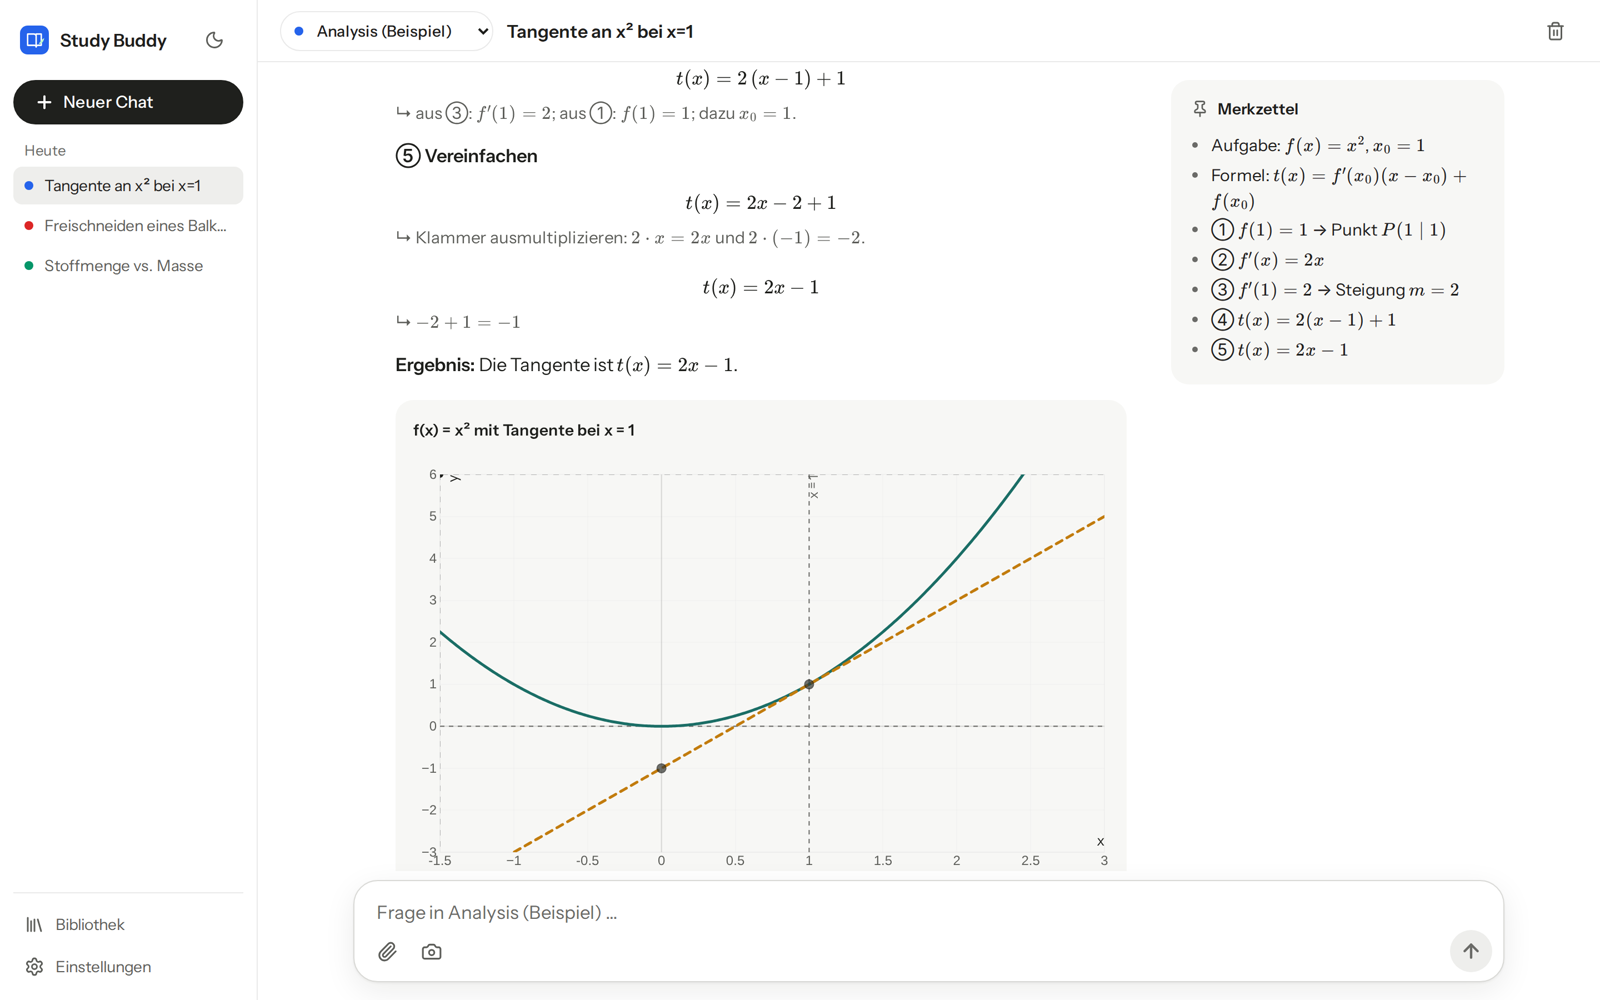
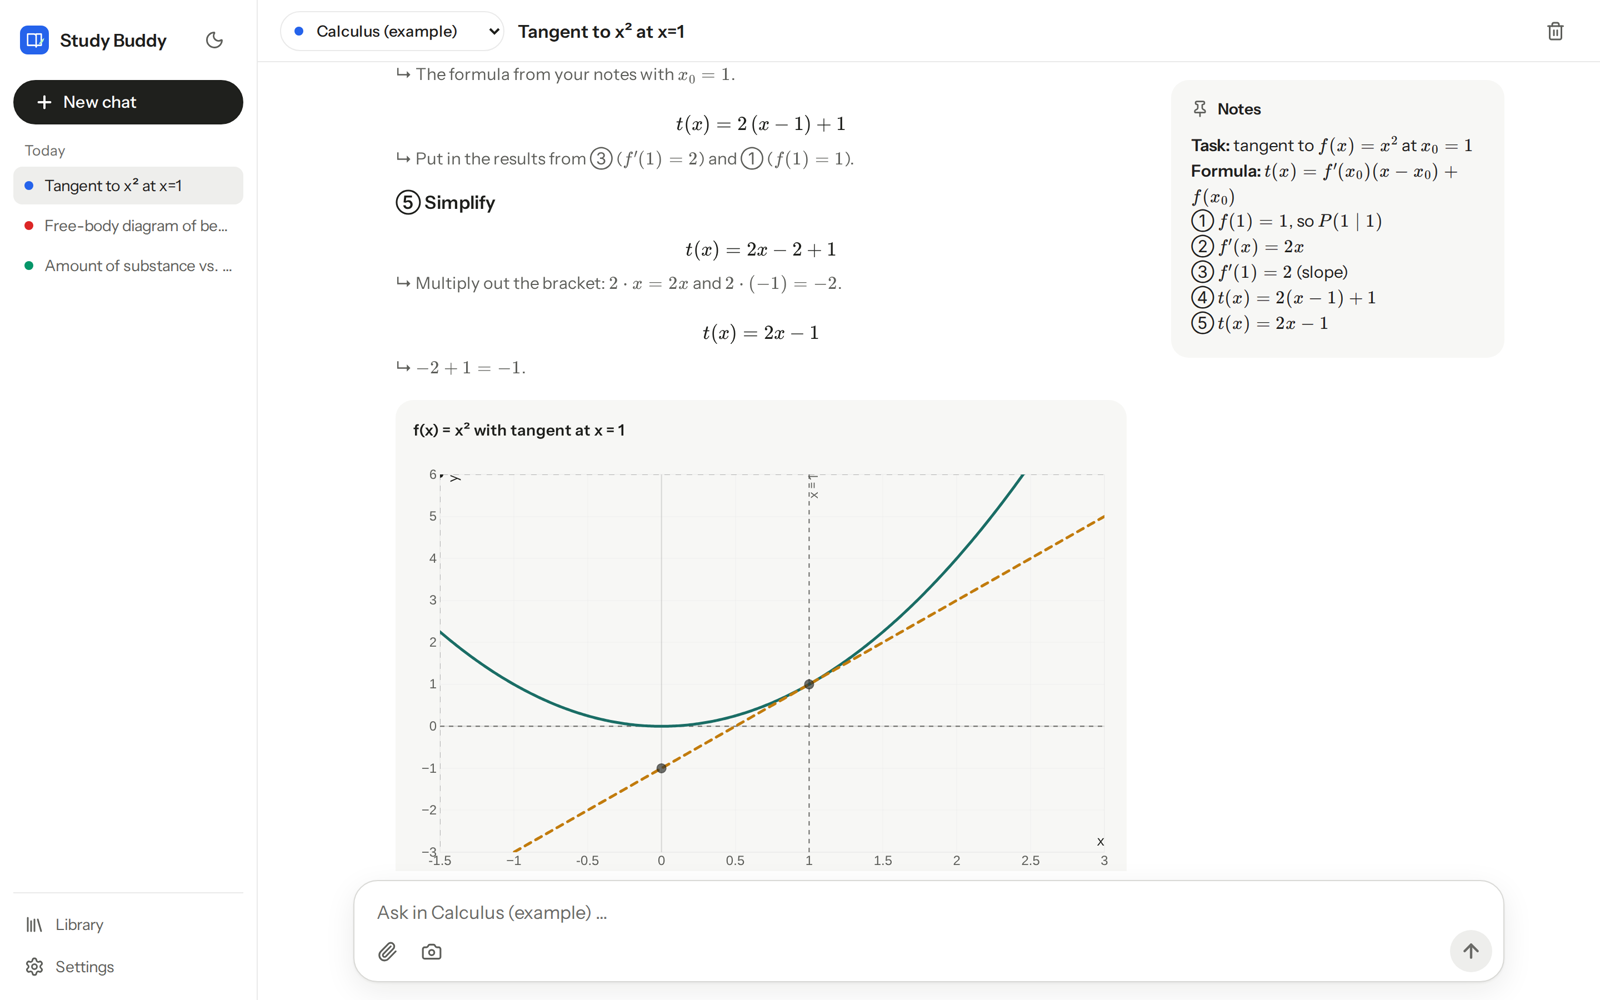
English by default: example config, screenshots and an English demo video
- app/config/app.example.json: starting language (en) and optional term language
- English sample modules and learner profile; the prompt no longer hard-codes German exam terms
- Video lessons take an optional lang for on-screen labels; new tangent-en demo with an English voice
- README leads with the three UI languages and lists what is still German-only

diff --git a/app/server/prompt.ts b/app/server/prompt.ts
@@ -1,21 +1,34 @@
-import { DEFAULT_MODULE, MODULES, STUDENT_PROFILE } from "./config.ts";
+import { APP_SETTINGS, DEFAULT_MODULE, MODULES, STUDENT_PROFILE } from "./config.ts";
 
 /* The tutor's system prompt. It is in German on purpose: the learner studies in German.
    Personal details (what and where the learner studies) come from config/student.md. */
 
 const LANG: Record<string, string> = {
   de: "Antworte auf **Deutsch** (einfaches, klares Deutsch – kurze Sätze, keine unnötigen Fremdwörter).",
-  en: "Answer in **English** (simple, clear English). Always add the German technical term in brackets the first time it appears, e.g. „bearing force (Lagerkraft)“ – the exams are in German.",
-  ar: "أجب **بالعربية** (لغة بسيطة وواضحة، ويمكن استخدام العامية المصرية الخفيفة). اكتب المصطلح الألماني بين قوسين عند أول ظهور له، مثل: „قوة الارتكاز (Lagerkraft)“ – لأن الامتحانات بالألمانية. المعادلات تبقى بالرموز اللاتينية.",
+  en: "Answer in **English** (simple, clear English).",
+  ar: "أجب **بالعربية** (لغة بسيطة وواضحة، ويمكن استخدام العامية المصرية الخفيفة). المعادلات تبقى بالرموز اللاتينية.",
+};
+
+/** Optional: add technical terms in another language in brackets (e.g. when the exams are in German). */
+const termRule = (lang: string) => {
+  const t = APP_SETTINGS.termLanguage;
+  if (!t || (lang === "de" && /^deutsch|german$/i.test(t))) return "";
+  return lang === "ar"
+    ? `
+اكتب المصطلح الفني بال${t === "Deutsch" ? "ألمانية" : t} بين قوسين عند أول ظهور له، لأن الامتحانات بهذه اللغة.`
+    : `
+Add the ${t === "Deutsch" ? "German" : t} technical term in brackets the first time it appears, e.g. "bearing force (Lagerkraft)", because the exams are in that language.`;
 };
 
 export function systemPrompt(o: { lang: string; module: string; profile: string[]; library: string; name: string }) {
   const who = o.name.trim() || "die Person, die du betreust";
   const mod = MODULES.find((m) => m.id === o.module);
-  return `Du bist „Study Buddy“, ein persönlicher Tutor. ${o.name.trim() ? `Die Person, die du betreust, heißt **${o.name.trim()}** (den Namen nur im Chat verwenden, nie in Videos). ${o.name.trim()}` : "Die Person, die du betreust,"} ${STUDENT_PROFILE} Normale KI-Erklärungen waren oft zu schwer oder zu sprunghaft – deine Aufgabe: Es soll WIRKLICH verstanden werden. Sprich mit „du“ an.
+  return `Du bist „Study Buddy“, ein persönlicher Tutor. ${o.name.trim() ? `Die Person, die du betreust, heißt **${o.name.trim()}** (den Namen nur im Chat verwenden, nie in Videos).` : ""}
+Über die Person: ${STUDENT_PROFILE}
+Normale KI-Erklärungen waren oft zu schwer oder zu sprunghaft – deine Aufgabe: Es soll WIRKLICH verstanden werden. Sprich mit „du“ an.
 
 ## Sprache
-${LANG[o.lang] ?? LANG.de}
+${LANG[o.lang] ?? LANG.de}${termRule(o.lang)}
 
 ## Module
 ${MODULES.filter((m) => m.id !== DEFAULT_MODULE).map((m) => `- ${m.id}: ${m.name}`).join("\n")}

diff --git a/app/server/index.ts b/app/server/index.ts
@@ -7,7 +7,7 @@ import path from "node:path";
 import { execFile } from "node:child_process";
 import { promisify } from "node:util";
 import { db, getSetting, now, setSetting, uid, UPLOAD_DIR } from "./db.ts";
-import { APP_DIR, BASE_PATH, DEFAULT_MODULE, MODULES, PYTHON, isModule } from "./config.ts";
+import { APP_DIR, BASE_PATH, DEFAULT_LANG, DEFAULT_MODULE, MODULES, PYTHON, isModule } from "./config.ts";
 import { addDocument, deleteDoc, getDoc, importLibraryFolder, listDocs } from "./library.ts";
 import { getVideo, listVideos, resumeQueue } from "./video.ts";
 import { runTurn, type Attachment, type TurnEvent } from "./agent.ts";
@@ -90,12 +90,12 @@ api.use((req, res, next) => {
 });
 
 // ---------- Settings, modules, learner memory ----------
-api.get("/me", (_req, res) => res.json({ ok: true, lang: getSetting("lang", "de"), name: getSetting("name", "") }));
+api.get("/me", (_req, res) => res.json({ ok: true, lang: getSetting("lang", DEFAULT_LANG), name: getSetting("name", "") }));
 api.put("/settings", (req, res) => {
   const lang = String(req.body?.lang ?? "");
   if (["de", "en", "ar"].includes(lang)) setSetting("lang", lang);
   if (typeof req.body?.name === "string") setSetting("name", req.body.name.replace(/[\r\n]/g, " ").trim().slice(0, 40));
-  res.json({ lang: getSetting("lang", "de"), name: getSetting("name", "") });
+  res.json({ lang: getSetting("lang", DEFAULT_LANG), name: getSetting("name", "") });
 });
 api.get("/modules", (_req, res) => {
   const counts = db.prepare("SELECT module, COUNT(*) AS n FROM documents GROUP BY module").all() as { module: string; n: number }[];

diff --git a/app/server/config.ts b/app/server/config.ts
@@ -18,7 +18,7 @@ export const MODEL = process.env.STUDY_MODEL || "claude-opus-5-5";
 
 export type Module = { id: string; name: string; icon: string; color: string; semester: number; handbook: string };
 
-/** modules.json and student.md (each falls back to its *.example file). */
+/** app.json, modules.json and student.md (each falls back to its *.example file). */
 const CONFIG_DIR = path.resolve(process.env.CONFIG_DIR || path.join(APP_DIR, "config"));
 
 /** Read config/<name>, falling back to config/<example> so a fresh clone runs with sample data. */
@@ -33,6 +33,11 @@ if (!MODULES.some((m) => m.id === "allgemein")) {
   MODULES.push({ id: "allgemein", name: "Allgemein", icon: "messages-square", color: "#64748b", semester: 0, handbook: "" });
 }
 export const DEFAULT_MODULE = "allgemein";
+
+/** App defaults: the starting UI/answer language ("de" | "en" | "ar"), and optionally the language in which
+    technical terms are added in brackets (useful when the exams are in another language than the answers). */
+export const APP_SETTINGS: { lang: "de" | "en" | "ar"; termLanguage: string | null } = { lang: "en", termLanguage: null, ...JSON.parse(readConfig("app.json", "app.example.json")) };
+export const DEFAULT_LANG = APP_SETTINGS.lang;
 
 /** A few sentences about the learner (what and where they study); inserted into the tutor prompt. */
 export const STUDENT_PROFILE = readConfig("student.md", "student.example.md").trim();

diff --git a/video/src/Scenes.tsx b/video/src/Scenes.tsx
@@ -146,7 +146,7 @@ export const DiagramScene: React.FC<P & { appear: Record<string, number>; dur: R
 };
 
 /** Running notes on the right: persist across scenes and collect the task and intermediate results. */
-export const Notes: React.FC<{ th: Theme; t: number; notes: { at: number; label?: string; tex?: string; text?: string }[]; visibleFrom: number }> = ({ th, t, notes, visibleFrom }) => {
+export const Notes: React.FC<{ th: Theme; t: number; notes: { at: number; label?: string; tex?: string; text?: string }[]; visibleFrom: number; title?: string }> = ({ th, t, notes, visibleFrom, title = "Merkzettel" }) => {
   const o = ease(t, visibleFrom - 0.3, 0.6);
   if (o <= 0) return null;
   const shown = notes.filter((n) => t >= n.at - 0.1);
@@ -157,7 +157,7 @@ export const Notes: React.FC<{ th: Theme; t: number; notes: { at: number; label?
       borderRadius: 22, padding: "18px 22px", display: "flex", flexDirection: "column", gap: 10,
       boxShadow: th.name === "tafel" ? "0 6px 20px rgba(15,23,42,0.07)" : "none", overflow: "hidden",
     }}>
-      <div style={{ fontFamily: th.body, fontWeight: 800, fontSize: 30, color: th.amber }}>📌 Merkzettel</div>
+      <div style={{ fontFamily: th.body, fontWeight: 800, fontSize: 30, color: th.amber }}>📌 {title}</div>
       {shown.map((n, i) => {
         const a = ease(t, n.at - 0.1, 0.5);
         const fresh = t - n.at < 2.5;

diff --git a/app/server/agent.ts b/app/server/agent.ts
@@ -3,7 +3,7 @@ import path from "node:path";
 import { query, tool, createSdkMcpServer, type SDKUserMessage, type HookCallback } from "@anthropic-ai/claude-agent-sdk";
 import { z } from "zod";
 import { db, getSetting, now } from "./db.ts";
-import { DATA_DIR, MODEL, MODULES, moduleIds, moduleName } from "./config.ts";
+import { DATA_DIR, DEFAULT_LANG, MODEL, MODULES, moduleIds, moduleName } from "./config.ts";
 import { addDocument, getDoc, listDocs, pageText, search } from "./library.ts";
 import { checkLesson, createVideo, lessonSchema } from "./video.ts";
 import { systemPrompt } from "./prompt.ts";
@@ -101,7 +101,7 @@ const IMAGE_MIME = ["image/jpeg", "image/png", "image/gif", "image/webp"];
 /** One chat turn: send the message to Claude, stream the answer to the client, persist everything. */
 export async function runTurn(chatId: string, text: string, attachments: Attachment[], emit: (e: TurnEvent) => void) {
   const chat = db.prepare("SELECT * FROM chats WHERE id = ?").get(chatId) as any;
-  const lang = getSetting("lang", "de");
+  const lang = getSetting("lang", DEFAULT_LANG);
   const name = getSetting("name", "");
   const profile = (db.prepare("SELECT note FROM profile ORDER BY id").all() as { note: string }[]).map((r) => r.note);
   const docs = listDocs();

diff --git a/video/src/Lesson.tsx b/video/src/Lesson.tsx
@@ -41,9 +41,9 @@ const SceneView: React.FC<{ L: Lesson; i: number; starts: number[]; th: Theme; a
   );
 };
 
-const NotesLayer: React.FC<{ th: Theme; notes: { at: number }[]; visibleFrom: number }> = ({ th, notes, visibleFrom }) => {
+const NotesLayer: React.FC<{ th: Theme; notes: { at: number }[]; visibleFrom: number; title: string }> = ({ th, notes, visibleFrom, title }) => {
   const frame = useCurrentFrame();
-  return <Notes th={th} t={frame / FPS} notes={notes} visibleFrom={visibleFrom} />;
+  return <Notes th={th} t={frame / FPS} notes={notes} visibleFrom={visibleFrom} title={title} />;
 };
 
 const Progress: React.FC<{ th: Theme; total: number }> = ({ th, total }) => {
@@ -81,7 +81,7 @@ export const LessonVideo: React.FC<{ lesson: Lesson }> = ({ lesson: L }) => {
         </Sequence>
       ))}
       <div style={{ position: "absolute", top: 40, right: 60, fontFamily: th.body, fontSize: 24, fontWeight: 700, color: th.muted, opacity: 0.8 }}>{L.module}</div>
-      <NotesLayer th={th} notes={notes} visibleFrom={visibleFrom} />
+      <NotesLayer th={th} notes={notes} visibleFrom={visibleFrom} title={L.lang === "en" ? "Notes" : "Merkzettel"} />
       <Progress th={th} total={total} />
     </AbsoluteFill>
   );

diff --git a/app/web/src/i18n.ts b/app/web/src/i18n.ts
@@ -39,7 +39,7 @@ const T = {
     askSimpler: "Please explain that again more simply and slowly, with even smaller steps.",
     askDeeper: "Please explain that in more depth: more background on why it works, and a second example.",
     askVideo: "Please make a video of your last explanation.",
-    merkzettel: "Notes (Merkzettel)", videoQueued: "Video queued …", videoTts: "Conrad is recording the voice …", videoRendering: "Rendering video …",
+    merkzettel: "Notes", videoQueued: "Video queued …", videoTts: "Conrad is recording the voice …", videoRendering: "Rendering video …",
     videoError: "Video failed", download: "Download", minutes: "min",
     deleteChat: "Delete chat", confirmDelete: "Really delete?", rename: "Rename",
     libTitle: "Library", libSub: "Your books, lecture notes and old exams. The tutor searches here first.", upload: "Upload PDFs",

diff --git a/video/src/types.ts b/video/src/types.ts
@@ -11,6 +11,8 @@ export type Scene = {
 };
 export type Lesson = {
   id: string; title: string; module: string; style: "tafel" | "modern"; voice: string; rate?: string;
+  /** UI labels inside the video ("de" default, "en"). The narration language follows the text and the voice. */
+  lang?: "de" | "en";
   beam?: { l: number; a: number; F: number }; scenes: Scene[];
 };
 

diff --git a/README.md b/README.md
@@ -5,6 +5,8 @@ You ask a question (or send a photo of an exercise or a PDF), and Study Buddy an
 course material, step by step, with formulas, graphs and sketches. On request, it turns the explanation
 into a narrated explainer video.
 
+**UI in English, German and Arabic.** The tutor answers in the language you pick. A fresh clone starts in English.
+
 <p>
   <img src="docs/screenshots/chat-light.png" alt="Chat with the tutor: step-by-step solution, running notes and a function graph" width="100%">
 </p>
@@ -39,6 +41,7 @@ into a narrated explainer video.
   - Works on iPad and Android; designed for tablet and phone first.
   - Light and dark mode.
   - The service worker caches only the app shell, never API responses.
+- **Three languages.** The UI comes in English, German and Arabic (with right-to-left layout), and the tutor answers in the selected language. Optionally, technical terms can be added in brackets in a second language, for example when the exams are in German.
 - **Password login** with a signed HttpOnly cookie and rate limiting: 5 failed attempts per IP per 15 minutes, 30 in total.
 
 ## Architecture
@@ -74,10 +77,10 @@ app/
   server/      Node server: API, auth, Claude agent and tools, library, video queue
   web/         React UI (Vite), service worker, manifest
   scripts/     extract_pdf.py (PyMuPDF)
-  config/      modules.example.json, student.example.md (copy and edit)
+  config/      app.example.json, modules.example.json, student.example.md (copy and edit)
 video/
   src/         Remotion composition: scenes, graphs, sketches, captions
-  lessons/     demo lessons (substitution, statics, tangent)
+  lessons/     demo lessons: tangent-en (English) and three German ones
   scripts/     tts.py (edge-tts), demo.mjs
 library/       drop your own PDFs here, one folder per module id
 docs/          screenshots
@@ -107,7 +110,7 @@ npm start                       # serves on http://127.0.0.1:3000 (PORT in .env)
 # Video renderer (only needed for explainer videos)
 cd ../video
 npm install
-npm run demo -- lessons/tangente.json   # optional: voice and render a demo to video/out/
+npm run demo -- lessons/tangent-en.json   # optional: voice and render a demo to video/out/
 ```
 
 ### Configuration
@@ -117,13 +120,14 @@ npm run demo -- lessons/tangente.json   # optional: voice and render a demo to v
   - `STUDY_PASSWORD`: the login password. Use a long random one.
   - `STUDY_SECRET`: the key for signing the login cookie.
   - `PORT`, plus the optional `STUDY_MODEL`, `BASE_PATH`, `DATA_DIR`, `CONFIG_DIR`, `LIBRARY_DIR` and `PYTHON`.
+- **`app/config/app.json`**: the starting language (`"lang": "en" | "de" | "ar"`) and `termLanguage` (for example `"Deutsch"` to add German technical terms in brackets, or `null`). Copy `app.example.json`. You can switch the language later in Settings.
 - **`app/config/modules.json`**: your subjects. Copy `modules.example.json`.
   - Each module has an `id`, a `name`, an `icon` (a [Lucide](https://lucide.dev/icons) name such as `sigma`), a `color` and optional `handbook` text (the course description the tutor can look up).
   - Keep the `allgemein` (general) module.
 - **`app/config/student.md`**: one or two sentences about the learner, for example what and where they study, and their first language. Copy `student.example.md`.
 - **Your PDFs:** put them in `library/<module-id>/`. They are imported on start, or you can upload them in the app.
 
-Without your own `modules.json` and `student.md`, the app runs with the example files.
+Without your own config files, the app runs with the example files, in English.
 
 ### Running it for real
 
@@ -136,7 +140,9 @@ Install the app from the browser: Safari → Share → Add to Home Screen, or Ch
 
 - **Claude is the only model provider.** The agent loop, tools and file reading rely on the Claude Agent SDK.
 - **One user at a time.** There is a single password and no accounts. Everyone who logs in sees the same chats and library.
-- **Mostly German.** The tutor rules, the prompts and the video narration are in German, and the UI defaults to German. English and Arabic UI translations exist, and answers can be in any of the three languages.
+- **Some parts are German-only.**
+  - **The tutor's rules and system prompt** are written in German. The answers still come in the language you pick, because the prompt tells the tutor which language to use.
+  - **App-generated videos** are narrated by a German voice (edge-tts "Conrad"), and their on-screen labels are German. The video engine itself supports any edge-tts voice and English labels: the `tangent-en` demo uses both.
 - **edge-tts** uses an unofficial Microsoft endpoint. It is free and sounds good, but it can change or stop working without notice.
 - **Text-only search.** Scanned PDFs (pages without a text layer) are not full-text searchable. The tutor can still open those pages as images.
 - **Your content leaves the machine.** Questions, attachments and the library pages the tutor reads are sent to the Claude API.
@@ -147,7 +153,7 @@ Pull requests and forks for non-commercial use are welcome. Good next steps:
 
 - **Multi-user accounts:** per-user chats, libraries and memory, instead of one shared password.
 - **Other model providers:** an adapter around the tool layer, for OpenAI-compatible APIs or local models.
-- **An English UI and tutor rules** as a first-class option, not a translation.
+- **English tutor rules and narration:** an English version of the tutor rules, and videos narrated in the UI language (the voice and the labels are already per-lesson settings in the video engine).
 - **Other subjects and universities:** a setup wizard for modules and course descriptions.
 - **Docker:** one image with Node, Python, ffmpeg and Chrome for the renderer.
 - **Tests and CI:** unit tests for the lesson validator and the search, Playwright smoke tests, GitHub Actions.

diff --git a/app/config/student.example.md b/app/config/student.example.md
@@ -1,1 +1,1 @@
-studiert **Maschinenbau (B.Eng.)** im **1. Semester**. Deutsch ist nicht die Muttersprache.
+Studies **mechanical engineering (B.Eng.)**, first semester.
